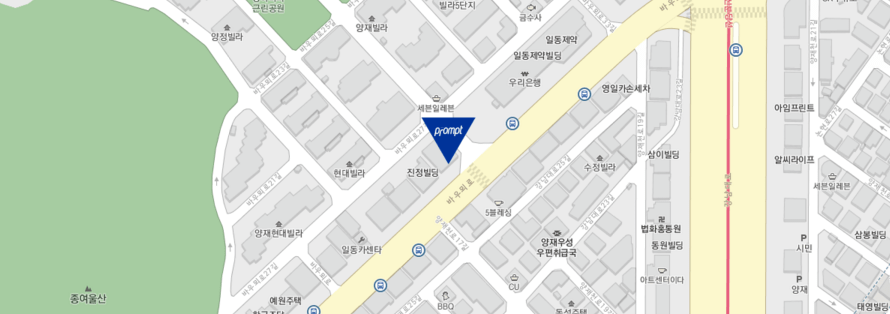
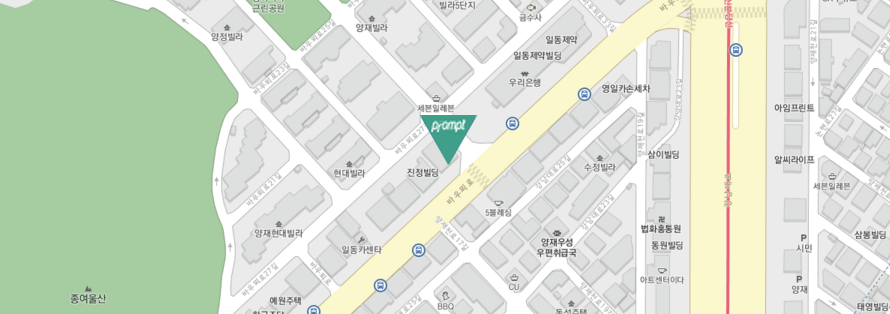
지도 포인트색상, 인덱스 설명, 포폴 상세페이지부분 메뉴 수정

Changed region(s): [[0.4551, 0.3439, 0.5461, 0.5159]]

diff --git a/index.html b/index.html
@@ -10,6 +10,7 @@
 		<!-- 히스토리 슬라이드 -->
 		<script src="js/jquery.slides.min.js">
 		</script>
+		<!-- 포트폴리오 카테고리 설정, 히스토리 이미지 길이에 따른 히스토리 섹션 길이 설정 -->
 		<script>
 			window.addEventListener('hashchange', function(evt) {
 				var type = window.location.hash.replace('#', '');
@@ -85,7 +86,7 @@
 					$('.pfItem .pfItemMaintenance').css('color', '#409f89').css('font-weight', '400');
 				}			
 			});
-
+			
 		    $(function() {
 			    $('#slides').slidesjs({
 			        width: 940,
@@ -252,10 +253,8 @@
 			.blind{
 				display:none;
 			}
-			/* 네비게이션 */
 			/* home */
 			#top {
-				/*background: #1D1D1D;*/
 				background: #1d1d1d;
 			}
 			.logo {
@@ -263,7 +262,6 @@
 				margin: 10px;
 			}
 			#home {
-				/*background: #1D1D1D;*/
 				position: relative;
 				background: #1d1d1d;
 				margin: 0;
@@ -358,7 +356,6 @@
 	        	font-size: 3vw;
     			line-height: 4.3vw;
 	        }
-	        /* home */
 	        /* history */
 	        #history {
 	        	background-color: #1d1d1d;
@@ -396,11 +393,9 @@
 		      position: absolute;
 		      right: 30%;
 		    }
-		    /* history */
 		    /* portfolio */
 		    #portfolio { 
 		    	position: relative;
-		    	/*background-color: #E6E6E6;*/
 		    	background-color: #1d1d1d;
 		    	padding: 0 0 20px;
 		    }
@@ -474,8 +469,6 @@
 		        box-sizing: border-box;
 		        display: block;
 		    }
-
-			/* portfolio */
 			/* contact */
 			#contact {
 				background-color: #1d1d1d;
@@ -512,7 +505,6 @@
 				width: 100%;
 				height: 345px;
 			}
-			/* contact */
 			/* footer */
 			#footer { 
 				width: 90%;
@@ -532,7 +524,6 @@
 				height: 10px;
 				margin: 20px 10px 0 0;
 			}
-			/* footer */
 
 			@media all and (min-width: 588px) {
 		    	.pfNav {
@@ -1126,15 +1117,6 @@
 				</ul>
 			</div>
 		</div>
-		<!--<div id="news">
-			<h1>News</h1>
-			<img src="">
-			<h3>프람트와 함께 할 경력 디자이너를 기다립니다.</h3>
-			<p>프람트와 함께 할 경력 디자이너를 기다립니다.
-크리에이티브하며 유연한 사고를 가진 디자이너 
-서비스 이해가 빠르며 질문을 많이 하는 디자이너 
-열정적으로 맡은 바 직무를 성실히 수행하는 디자이너</p>
-		</div>-->
 		<div id="contact">
 			<h1>Contact</h1>
 			<div class="contact-us">

diff --git a/pf.css b/pf.css
@@ -22,6 +22,8 @@
 				width:100%; 
 				margin:0; 
 				padding:0;
+				min-width:320px;
+				background:#fff;
 			}
 			.icMenu {
 				position: fixed;
@@ -54,11 +56,11 @@
 			}
 			#slideRight{
 				position:fixed;
-				right:-260px;
+				right:-180px;
 				top:0;
 				height:100%;
-				background:#212121;
-				width:260px;
+				background:#383838;
+				width:180px;
 				z-index: 1000;
 			}
 			.sideMenu h2{
@@ -72,38 +74,32 @@
 			}
 			.sideMenu .list li{
 				margin: 0 20px;
-				height: 53px;
-				border-bottom:1px solid #2c2c2c;
+				height: 50px;
+				border-bottom:1px solid #484848;
 			}
 			.sideMenu .list li:first-child{
-				height:75px;
 				border-bottom:0;
-				text-align: center;
-				margin: 20px 0 0;
+				margin: 0 10px;
 			}
 			.sideMenu .list li a{
-				height:52px;
+				height:50px;
 				font-size:16px;
 				color:#c8c8c8;
 				line-height:52px;
-				border-bottom:1px solid #616161;
 				display:block;
-				padding-left:15px;
 			}
 			.sideMenu .list li img{
-				width: 150px;
-			}
-			.sideMenu .list li:first-child a{
-				border-bottom:0;
-			}
-			#slideRight .list li a{
-				padding-right:15px;
+				width: 100px;
 			}
 			.on{
 				display:block;
 			}
 			.blind{
 				display:none;
+			}
+			.logo {
+			    max-width: 200px;
+			    margin: 10px;
 			}
 			/* 네비게이션 */
 			/* 포트폴리오 제목 */h2 {
